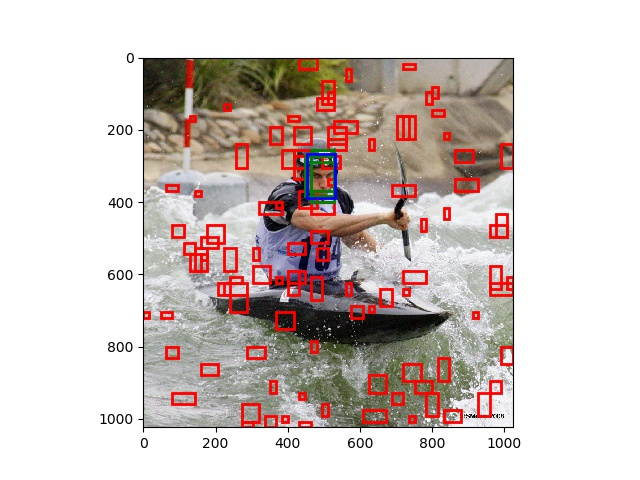
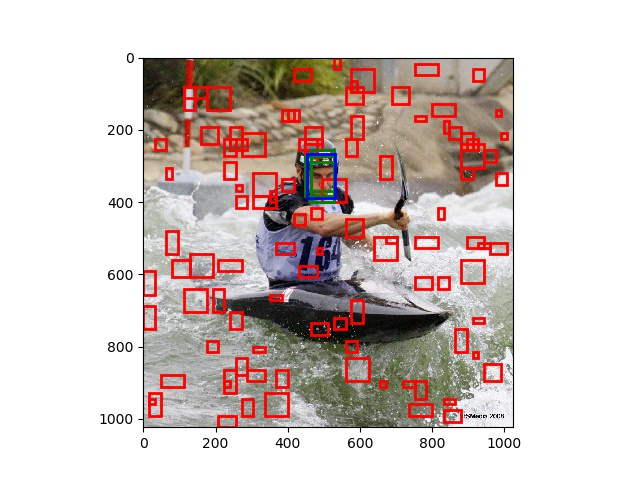
completed proposal target layer conv

diff --git a/models/rpn/proposal_target_layer.py b/models/rpn/proposal_target_layer.py
@@ -21,8 +21,8 @@ class _ProposalTargetLayer(nn.Module):
 
     def forward(self, rois, gt_boxes, features):
         batch_size = rois.shape[0]
-
-        # print("ROIS AND GT BOXES:", rois, gt_boxes)
+        
+        gt_boxes = torch.tensor(gt_boxes).float()
 
         # Include ground-truth boxes in the set of candidate rois
         all_rois = torch.cat([rois, gt_boxes], 1)
@@ -174,13 +174,7 @@ def _compute_targets_pytorch(ex_rois, gt_rois):
     assert gt_rois.size(2) == 4
 
     targets = bbox_transform_batch(ex_rois, gt_rois)
-
-    # TODO: Explore target normalization
-    # if cfg.TRAIN.BBOX_NORMALIZE_TARGETS_PRECOMPUTED:
-    #     # Optionally normalize targets by a precomputed mean and stdev
-    #     targets = ((targets - self.BBOX_NORMALIZE_MEANS.expand_as(targets))
-    #                 / self.BBOX_NORMALIZE_STDS.expand_as(targets))
-
+    
     return targets
 
 
@@ -201,7 +195,8 @@ def bbox_overlaps_vectorized(anchors, gt_boxes):
     return overlaps
 
 
-def bbox_transform_batch(ex_rois, gt_rois):
+def bbox_transform_batch_old(ex_rois, gt_rois):
+    print("shapes of genierated and gt", ex_rois.shape, gt_rois.shape)
     targets_dx = (gt_rois[:, :, 0] - ex_rois[:, :, 0])
     targets_dy = (gt_rois[:, :, 1] - ex_rois[:, :, 1])
     targets_dw = (gt_rois[:, :, 2] - ex_rois[:, :, 2])
@@ -210,6 +205,18 @@ def bbox_transform_batch(ex_rois, gt_rois):
     targets = torch.stack((targets_dx, targets_dy, targets_dw, targets_dh), 2)
 
     return targets
+
+def bbox_transform_batch(anchors, gt_boxes):
+
+    targets = np.full(gt_boxes.shape, 0.0, dtype=np.float)
+
+    targets[:, :, 0] = (gt_boxes[:, :, 0] - anchors[:, :, 0]) / anchors[:, :, 2]
+    targets[:, :, 1] = (gt_boxes[:, :, 1] - anchors[:, :, 1]) / anchors[:, :, 3]
+
+    targets[:, :, 2] = np.log10(gt_boxes[:, :, 2] / anchors[:, :, 2])
+    targets[:, :, 3] = np.log10(gt_boxes[:, :, 3] / anchors[:, :, 3])
+
+    return torch.from_numpy(targets)
 
 
 def _get_bbox_regression_labels_pytorch(bbox_target_data, labels_batch, num_classes):

diff --git a/models/rfcn.py b/models/rfcn.py
@@ -68,7 +68,9 @@ class _RFCN(nn.Module):
 
         # feed base feature map tp RPN to obtain rois
         rois, rpn_loss_cls, rpn_loss_bbox = self.RCNN_rpn(base_features, image_metadata, gt_boxes)
-
+        
+        # ROIs shape: (1, 300, 4)
+        # Base features: (1, 1024, 64, 64)
         # if it is training phrase, then use ground truth bboxes for refining proposals
         if self.training:
             rois, rois_label, rois_target, rois_inside_ws, rois_outside_ws = self.RCNN_proposal_target(rois, gt_boxes,
